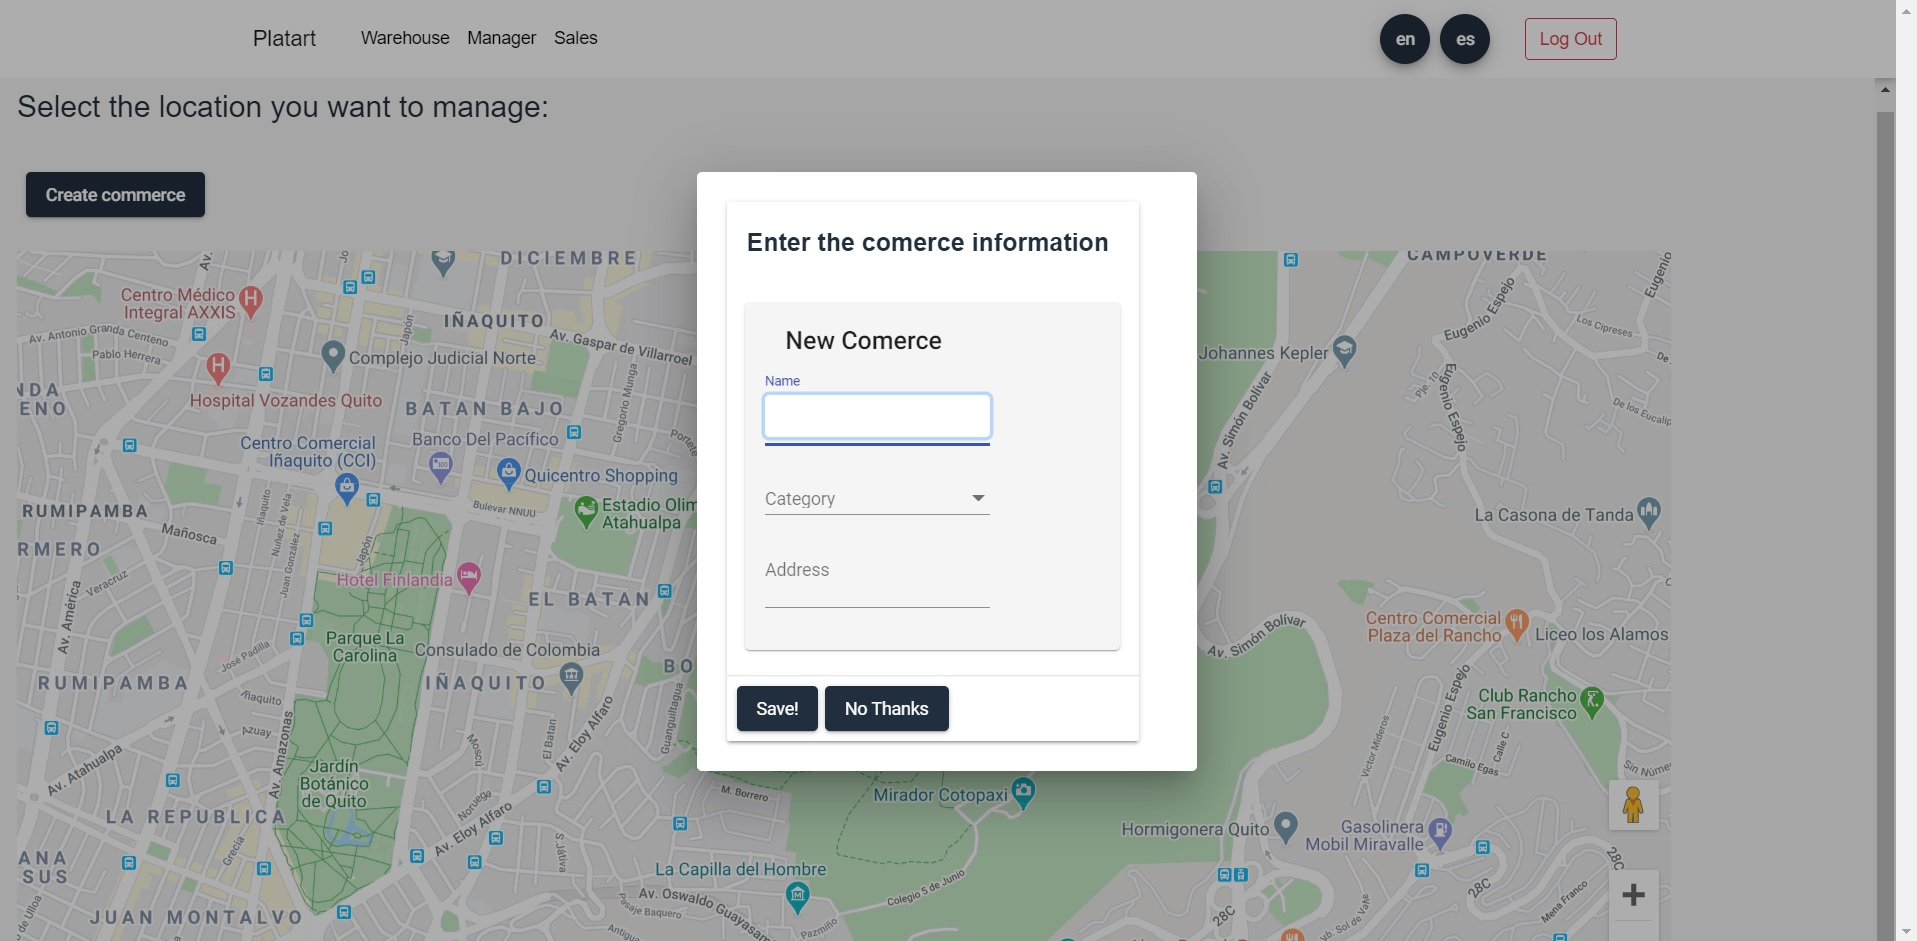
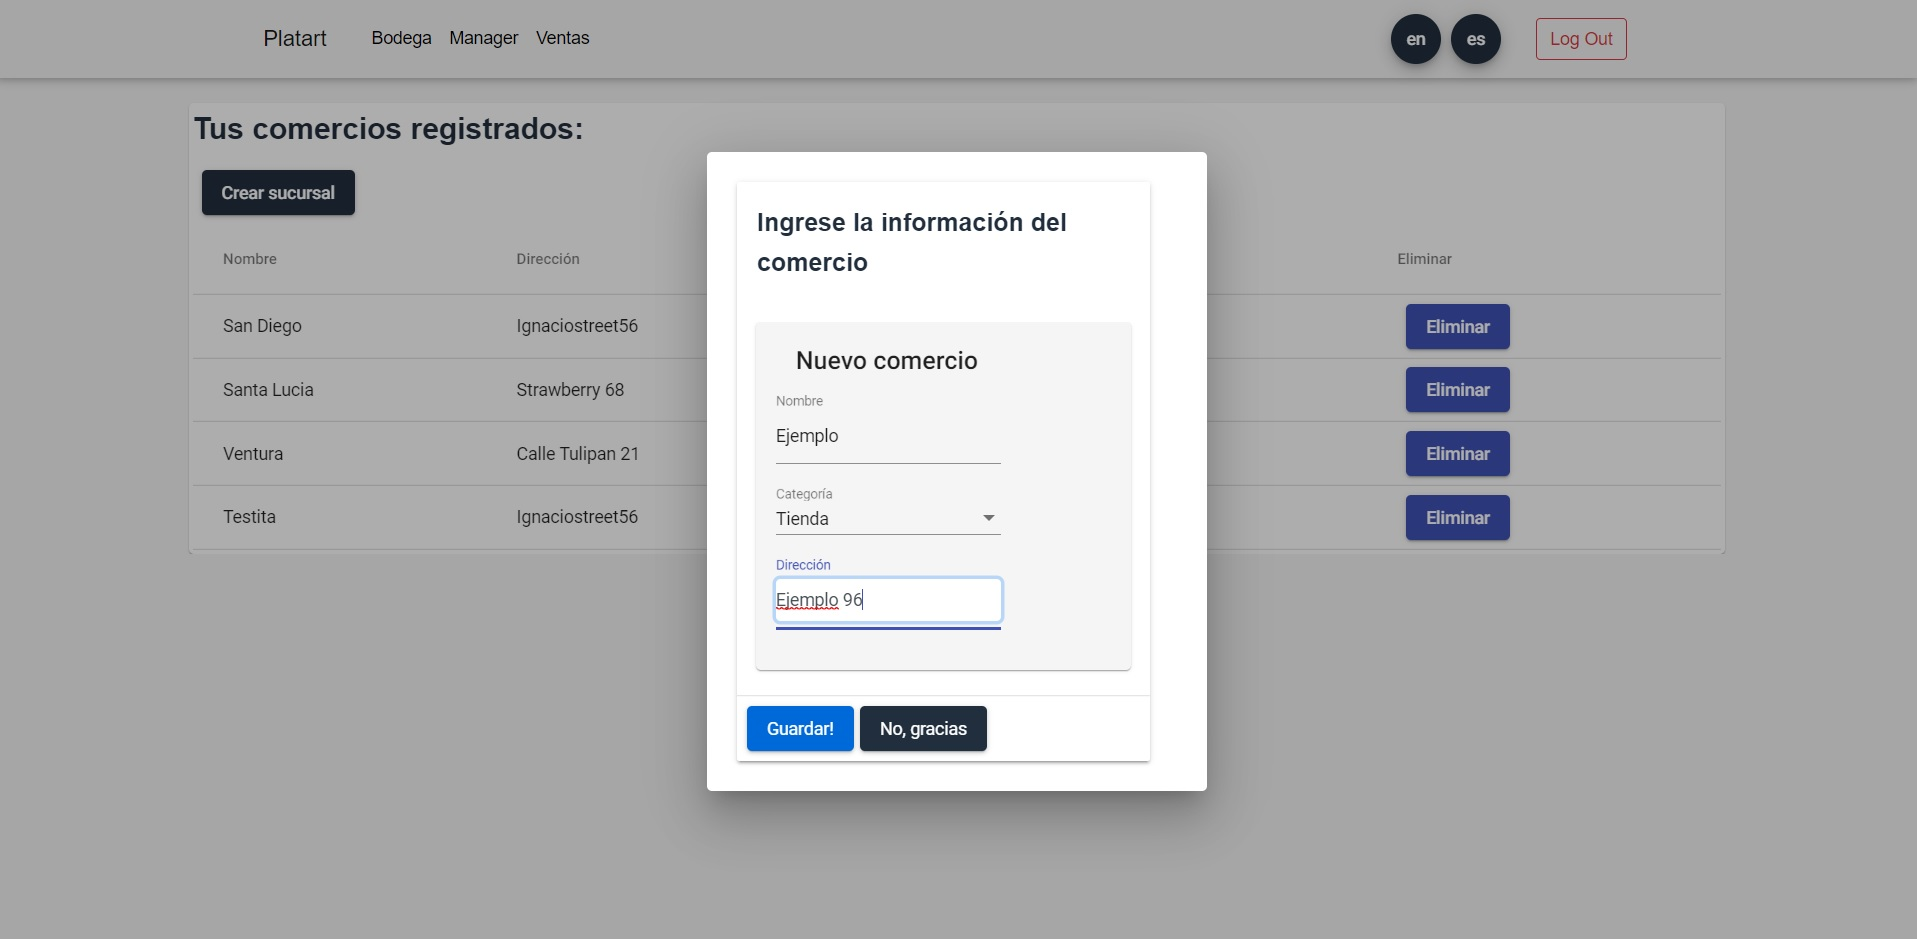
landing page has been updated to new comerce administration

diff --git a/src/app/content/landing-page/landing-page-warehouse.component.html b/src/app/content/landing-page/landing-page-warehouse.component.html
@@ -235,7 +235,7 @@
           <mat-panel-title>
             <div>
               <a class="mdl-button mdl-button--colored mdl-js-button mdl-js-ripple-effect" routerLink="/map">
-                - Registre nuevas sucursales y/o bodegas y localicelas en el mapa.
+                - Registre nuevas sucursales y/o bodegas (comercios).
               </a>
             </div>
           </mat-panel-title>
@@ -249,13 +249,13 @@
             <mat-card-header>
               <div mat-card-avatar class="example-header-image"></div>
               <mat-card-title>Manager</mat-card-title>
-              <mat-card-subtitle>Mapa</mat-card-subtitle>
+              <mat-card-subtitle>Sucursales</mat-card-subtitle>
             </mat-card-header>
             <img mat-card-image src="assets/images/m1.jpg" (click)="open(7)">
             <mat-card-content>
               <p>
-                -Registra nuevos almacenes y/o sucursales. Presiona "Create new comerce" e introduce la informacion del comercio
-                en los campos correspondientes. Despues presiona "save" para guardar.
+                -Registra nuevos almacenes y/o sucursales. Presiona "Crear sucursal" e introduce la informacion del comercio
+                en los campos correspondientes. Despues presiona "Guardar" para guardar.
 
               </p>
             </mat-card-content>
@@ -269,13 +269,12 @@
             <mat-card-header>
               <div mat-card-avatar class="example-header-image"></div>
               <mat-card-title>Manager</mat-card-title>
-              <mat-card-subtitle>Mapa</mat-card-subtitle>
+              <mat-card-subtitle>Sucursales</mat-card-subtitle>
             </mat-card-header>
             <img mat-card-image src="assets/images/m2.jpg" (click)="open(8)">
             <mat-card-content>
               <p>
-                -Hacer click en el mapa en ubicacion elegida, y mediante la ventana emergente que seleccionar el comercio
-                que se quiere registrar y hacer click en aceptar.
+                -Selecciona el boton de editar para editar la informacion del comercio con infomración nueva.
               </p>
             </mat-card-content>
             <mat-card-actions>
@@ -287,13 +286,12 @@
             <mat-card-header>
               <div mat-card-avatar class="example-header-image"></div>
               <mat-card-title>Manager</mat-card-title>
-              <mat-card-subtitle>Mapa</mat-card-subtitle>
+              <mat-card-subtitle>Sucursales</mat-card-subtitle>
             </mat-card-header>
             <img mat-card-image src="assets/images/m3.jpg" (click)="open(9)">
             <mat-card-content>
               <p>
-                -Una vez con el comercio registrado, se puede hacer click en el marcador y mediante los botones se puede editar la informacion,
-                borrar el marcador o borrar el comercio de la base de datos.
+                -Selecciona el boton de eliminar para borrar el comercio peranentemente.
               </p>
             </mat-card-content>
             <mat-card-actions>
